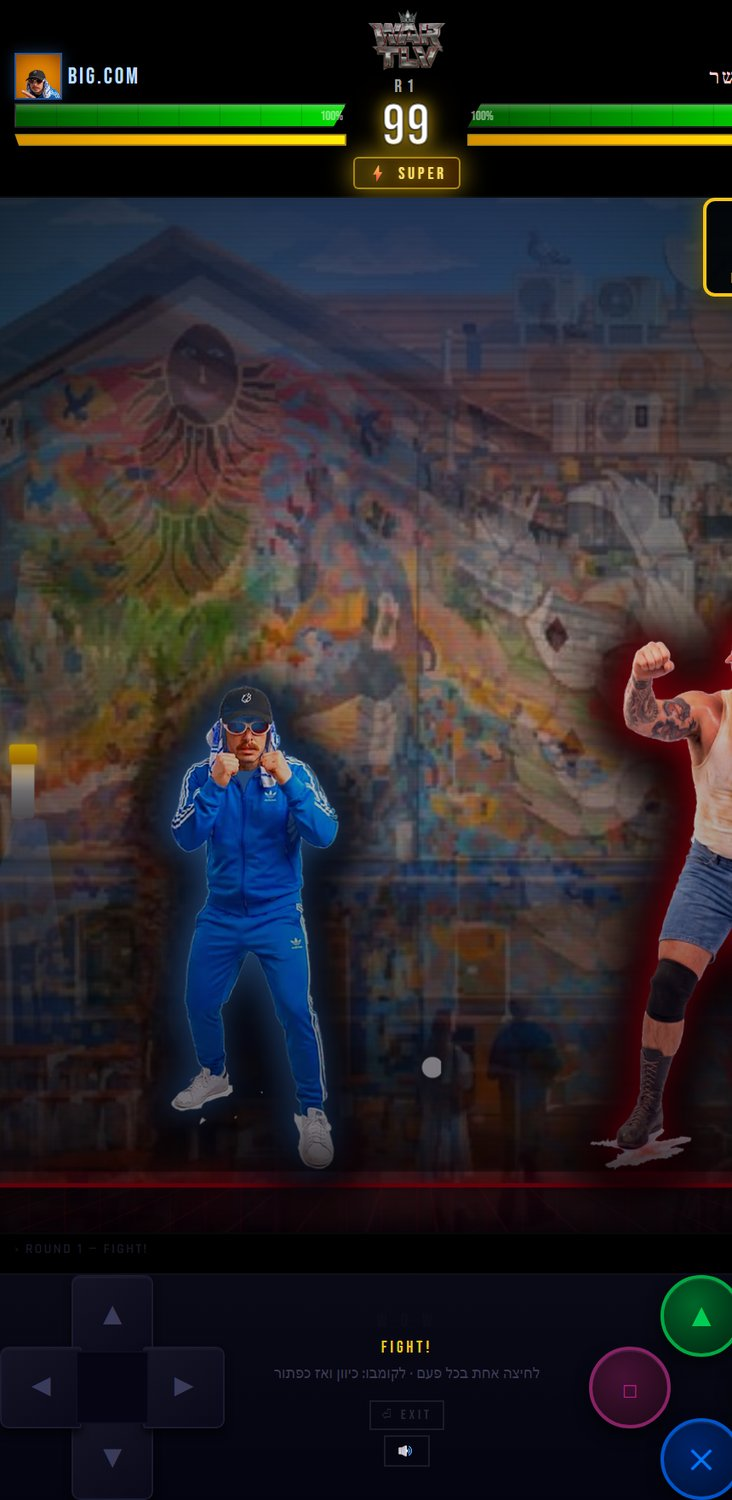
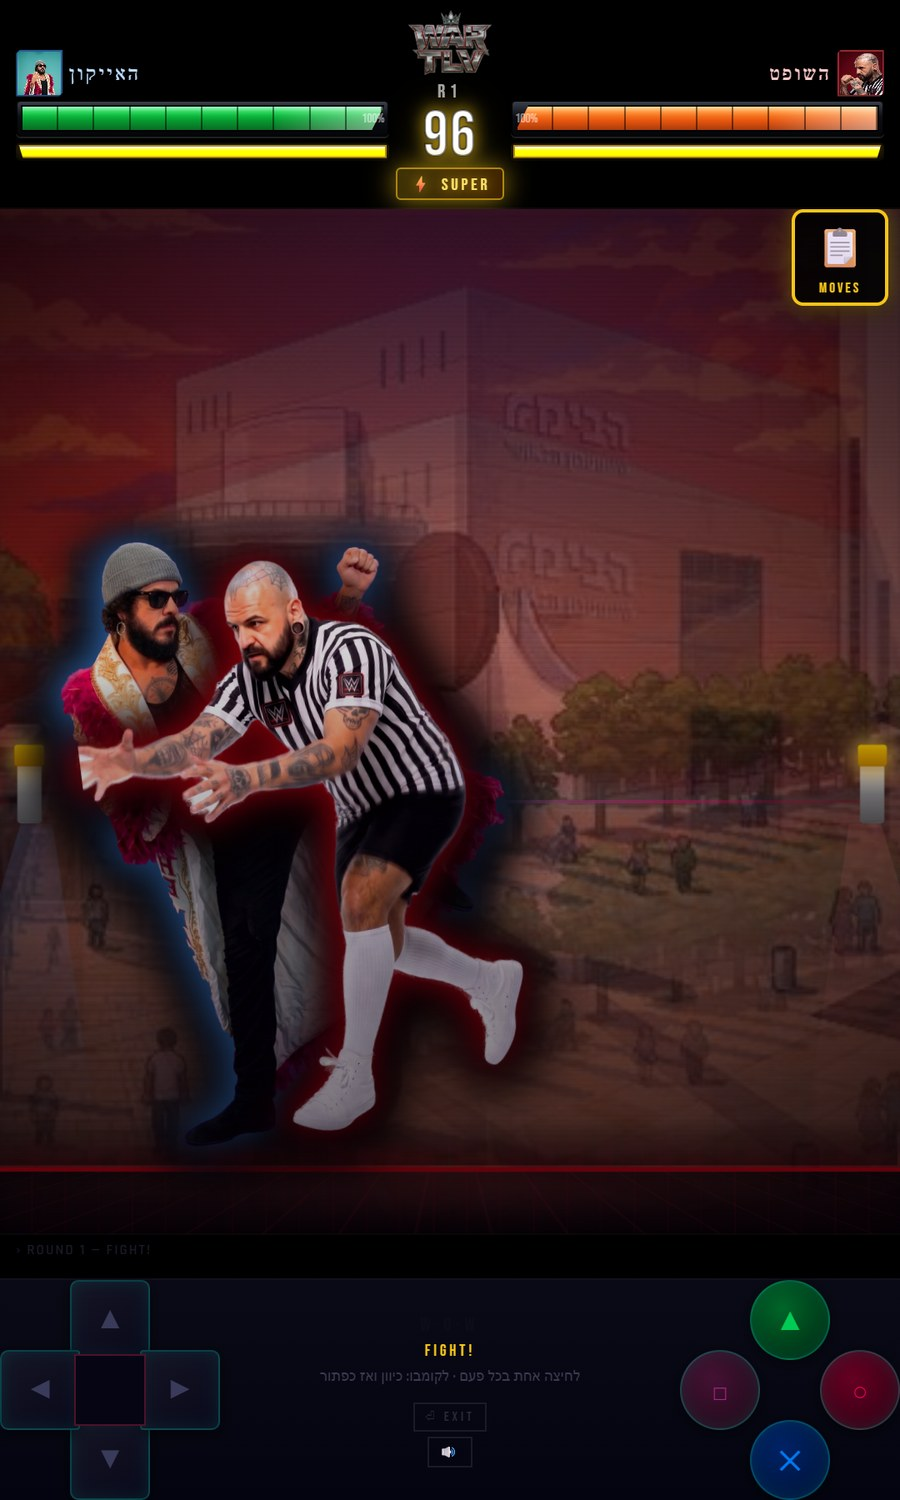
Upgrade in-game portfolio screenshots and add portfolio link to fighter menu
- Replace the four WAR TLV portfolio screenshots with fresh, more
  charismatic captures from the current game (select / pick / VS / battle).
- Add a "תיק עבודות" (portfolio) option to the fighter-select menu,
  alongside the champions table; opens /portfolio in a new tab.
- .scf now wraps so the sixth menu item lays out cleanly on mobile.

diff --git a/index.html b/index.html
@@ -178,7 +178,7 @@ html,body{width:100%;height:100%;background:#000;overflow:hidden;font-family:'Ra
 .bfi.on{display:block;}.bfi:active{transform:scale(.97);}
 @keyframes bfiPulse{0%,100%{box-shadow:0 4px 16px rgba(200,15,18,.5),inset 0 1px 0 rgba(255,255,255,.25)}50%{box-shadow:0 4px 22px rgba(255,58,42,.85),inset 0 1px 0 rgba(255,255,255,.3)}}
 /* console-style footer prompts */
-.scf{position:relative;z-index:3;display:flex;justify-content:center;gap:clamp(10px,4vw,26px);padding:clamp(3px,1vw,6px) 0 clamp(5px,1.6vw,9px);font-family:'Heebo',system-ui,sans-serif;}
+.scf{position:relative;z-index:3;display:flex;flex-wrap:wrap;justify-content:center;gap:clamp(10px,4vw,26px);padding:clamp(3px,1vw,6px) 0 clamp(5px,1.6vw,9px);font-family:'Heebo',system-ui,sans-serif;}
 .scf-p{display:flex;align-items:center;gap:5px;font-size:clamp(8px,2.2vw,11px);color:#aeb8c6;letter-spacing:.3px;cursor:pointer;opacity:.85;}
 .scf-p:active{opacity:.5;}
 .scf-p b{display:inline-flex;align-items:center;justify-content:center;width:clamp(15px,4.4vw,21px);height:clamp(15px,4.4vw,21px);border-radius:50%;border:1.5px solid rgba(255,255,255,.4);font-size:clamp(8px,2.2vw,11px);font-weight:700;color:#fff;}
@@ -1353,6 +1353,7 @@ html,body{width:100%;height:100%;background:#000;overflow:hidden;font-family:'Ra
   <div class="scf">
     <div class="scf-p" onclick="showTutorial()"><b>?</b><span>איך משחקים</span></div>
     <div class="scf-p" onclick="openLeaderboard()"><b>🏆</b><span>טבלת אלופים</span></div>
+    <div class="scf-p" onclick="window.open('portfolio/','_blank','noopener')"><b>🎨</b><span>תיק עבודות</span></div>
     <div class="scf-p" onclick="openAch()"><b>🎖</b><span>הישגים</span></div>
     <div class="scf-p" onclick="toggleSound()"><b>♪</b><span>צליל</span></div>
     <div class="scf-p" onclick="openGCount()"><b>🌐</b><span>שחקנים</span></div>
